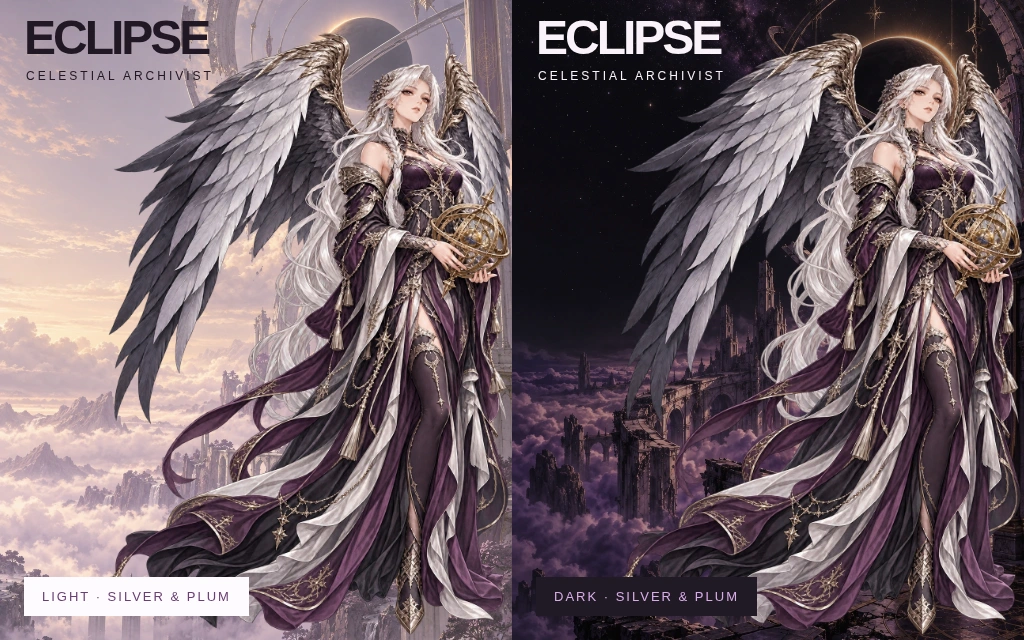
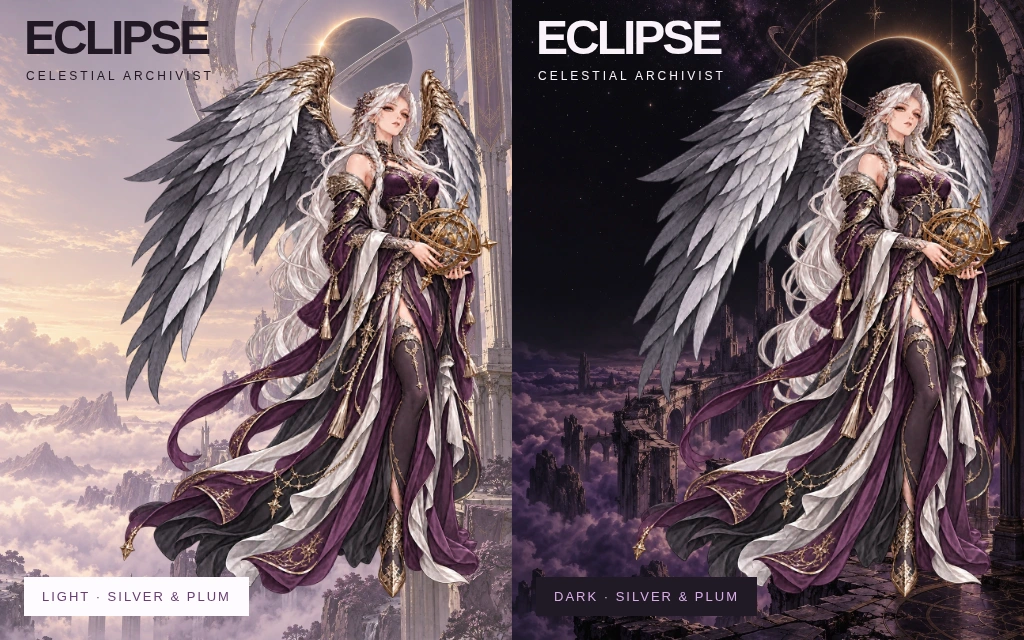
fix: repair anime theme silhouettes and transparent launch art

diff --git a/src/solar-cathedral/CREDITS.md b/src/solar-cathedral/CREDITS.md
@@ -6,13 +6,13 @@ The seven semantic control glyphs were independently drawn as a coherent angular
 
 ## Art direction and prompts
 
-- Home: original adult celestial knight with chestnut hair, sun crown, ivory and antique-gold armor, burgundy silk and a sun spear. A powerful waist-up transparent foreground, head upper-right, full crown and spear tip within the frame, quiet upper-left space, no lettering.
+- Home: original adult celestial knight with chestnut hair, sun crown, ivory and antique-gold armor, burgundy silk and a sun spear. A powerful waist-up transparent foreground, head upper-right at the original prominent scale, full crown and spear tip within the frame, repaired outer sleeve and cape edges, softly feathered lower torso, quiet upper-left space, no lettering.
 - Light wallpaper: colossal ivory celestial cathedral suspended above sunlit amber clouds, immense flying buttresses and sun observatory, rich cinematic anime architecture, no characters and no lettering.
 - Dark wallpaper: charcoal and bronze cathedral above black storm clouds beneath a golden eclipse, warm amber windows, dark quiet left-middle region, no blue, no characters and no lettering.
-- Launch, light: the complete knight, spear and boots on a cathedral balcony, the full character framed with monumental sunlight architecture behind her.
-- Launch, dark: the same complete knight in an obsidian cathedral, golden eclipse and warm amber illumination; identity and framing preserved.
+- Launch, light: an independent full-body knight cutout, complete crown, spear, cloak and boots isolated on genuine transparent alpha. The original cathedral, balcony, floor and reflection were removed; physical edges remain inside the canvas.
+- Launch, dark: an independent full-body knight cutout with burgundy cloak and warm gold illumination, isolated on genuine transparent alpha. Cathedral, eclipse, floor and reflections were removed; identity and complete equipment were preserved.
 - Preview: equal-width light and dark halves displaying the same knight and respective cathedral environments, no text.
 
 ## Implementation
 
-The Home foreground and launch scenes are independent files. The wallpaper contains no duplicate foreground character. Both layouts share the foreground, and all supported image slots define compact and regular behavior. The wallpaper remains at full opacity; opaque functional surfaces maintain readable controls. The dust effect is deliberately sparse and slow and uses theme palette roles.
+The Home foreground and transparent launch figures are independent files. Scenery is confined to wallpaper and the gallery preview. Version 1.0.1 replaces opaque launch scenes and repairs the Home silhouette. The wallpaper contains no duplicate foreground character. Both layouts share the foreground, and all supported image slots define compact and regular behavior. The wallpaper remains at full opacity; opaque functional surfaces maintain readable controls. The dust effect is deliberately sparse and slow and uses theme palette roles.

diff --git a/src/eclipse-archivist/CREDITS.md b/src/eclipse-archivist/CREDITS.md
@@ -3,7 +3,7 @@
 All illustrations were created for Muqun with OpenAI's built-in image generation tool on September 26, 2026. The celestial archivist, costume and environment are original fictional designs; no existing franchise characters or external reference artwork were used. Released under CC0-1.0 to the extent permitted by applicable rights.
 
 - `assets/figure.webp`: Original silver-winged celestial archivist, plum robes, white hair and armillary sphere; generated as a portrait and refined with a transparent-background extraction pass. The resulting alpha channel is preserved.
-- `assets/launch.webp`: Separate complete launch composition with the archivist before an eclipsed ruined ringworld observatory.
+- `assets/launch.webp`: Independent full-body transparent launch pose of the archivist, with both silver wings, complete costume and armillary sphere; the original scenery was removed through image generation editing.
 - `assets/wallpaper-light.webp`: Pearl and plum dawn ringworld observatory, without characters.
 - `assets/wallpaper-dark.webp`: Charcoal and plum nocturnal ringworld observatory, without characters.
 - `assets/preview.webp`: HTML-rendered light/dark gallery composition of this theme's artwork, 1024 by 640 pixels.
@@ -11,6 +11,10 @@ All illustrations were created for Muqun with OpenAI's built-in image generation
 
 ## Generation direction
 
-Premium original anime key visual, monumental celestial architecture and lunar eclipse; pearl, plum, charcoal, silver and warm gold; no blue styling, logos or baked-in text. Home figure uses a transparent silhouette; wallpaper contains no repeated character. Launch uses a complete independent scene. Stars are a low-density, low-speed App-provided decorative effect, not bundled animation.
+Premium original anime key visual, monumental celestial architecture and lunar eclipse; pearl, plum, charcoal, silver and warm gold; no blue styling, logos or baked-in text. Home figure uses a transparent silhouette; wallpaper contains no repeated character. Launch uses a complete independent transparent character pose; scenery appears only in wallpapers. Stars are a low-density, low-speed App-provided decorative effect, not bundled animation.
 
 Compact and regular slot bindings are explicit. Foreground and launch use contain fitting to preserve wings and full costume in Classic and Editorial. No layout coordinates or App behavior are overridden.
+
+## Version 1.0.1 asset correction
+
+The built-in image generation tool removed the opaque launch scene and repaired the Home silhouette boundaries. Both assets now preserve complete physical details within transparent margins. Light and dark solid-background composites were inspected to confirm there is no rectangular background or fringe haze. Home and launch remain separate compositions. The final Home alpha bounds at a 5% threshold are 961 by 1375 at (37, 58) on a 1024 by 1536 canvas; launch bounds are 992 by 1430 at (17, 53).

diff --git a/src/obsidian-titan/CREDITS.md b/src/obsidian-titan/CREDITS.md
@@ -15,3 +15,7 @@ Premium original anime illustration; silver hair, amber eyes, basalt segmented a
 ## Effect
 
 Restrained rising embers at intensity 0.18, speed 0.3, density 0.35 and size 0.7. Palette uses primary and warning roles. Uses the App's existing bounded effect renderer; no shaders or scripts are bundled.
+
+## Version 1.0.1 framing correction
+
+Home and launch were outpainted with the built-in image tool to complete the physical silhouette instead of hiding canvas cuts with layout changes. Home retains the close-up pilot and titan as a complete pointed armored bust, with all scarf tips enclosed. Launch preserves the boots and finishes the entire volcanic ledge. Opaque light and dark review composites verify the canvas boundaries.

diff --git a/src/jade-tempest/CREDITS.md b/src/jade-tempest/CREDITS.md
@@ -10,3 +10,7 @@ All character and scenery artwork was newly created for this theme using OpenAI 
 - `icon-*.png`: original geometric semantic glyph family, drawn for this theme.
 
 Art direction: original anime key visual; jade emerald, bronze and ivory; monumental mountains and wind-driven robes. No baked-in lettering, interface controls, or external marks.
+
+## Version 1.0.1
+
+The Home foreground was outpainted with OpenAI image generation to complete the dragon horns, right silhouette and flowing garments. The original face, palette and pose are preserved. The separate launch illustration is unchanged. Boundary proofs composite the actual transparent assets over solid light and dark backgrounds.
